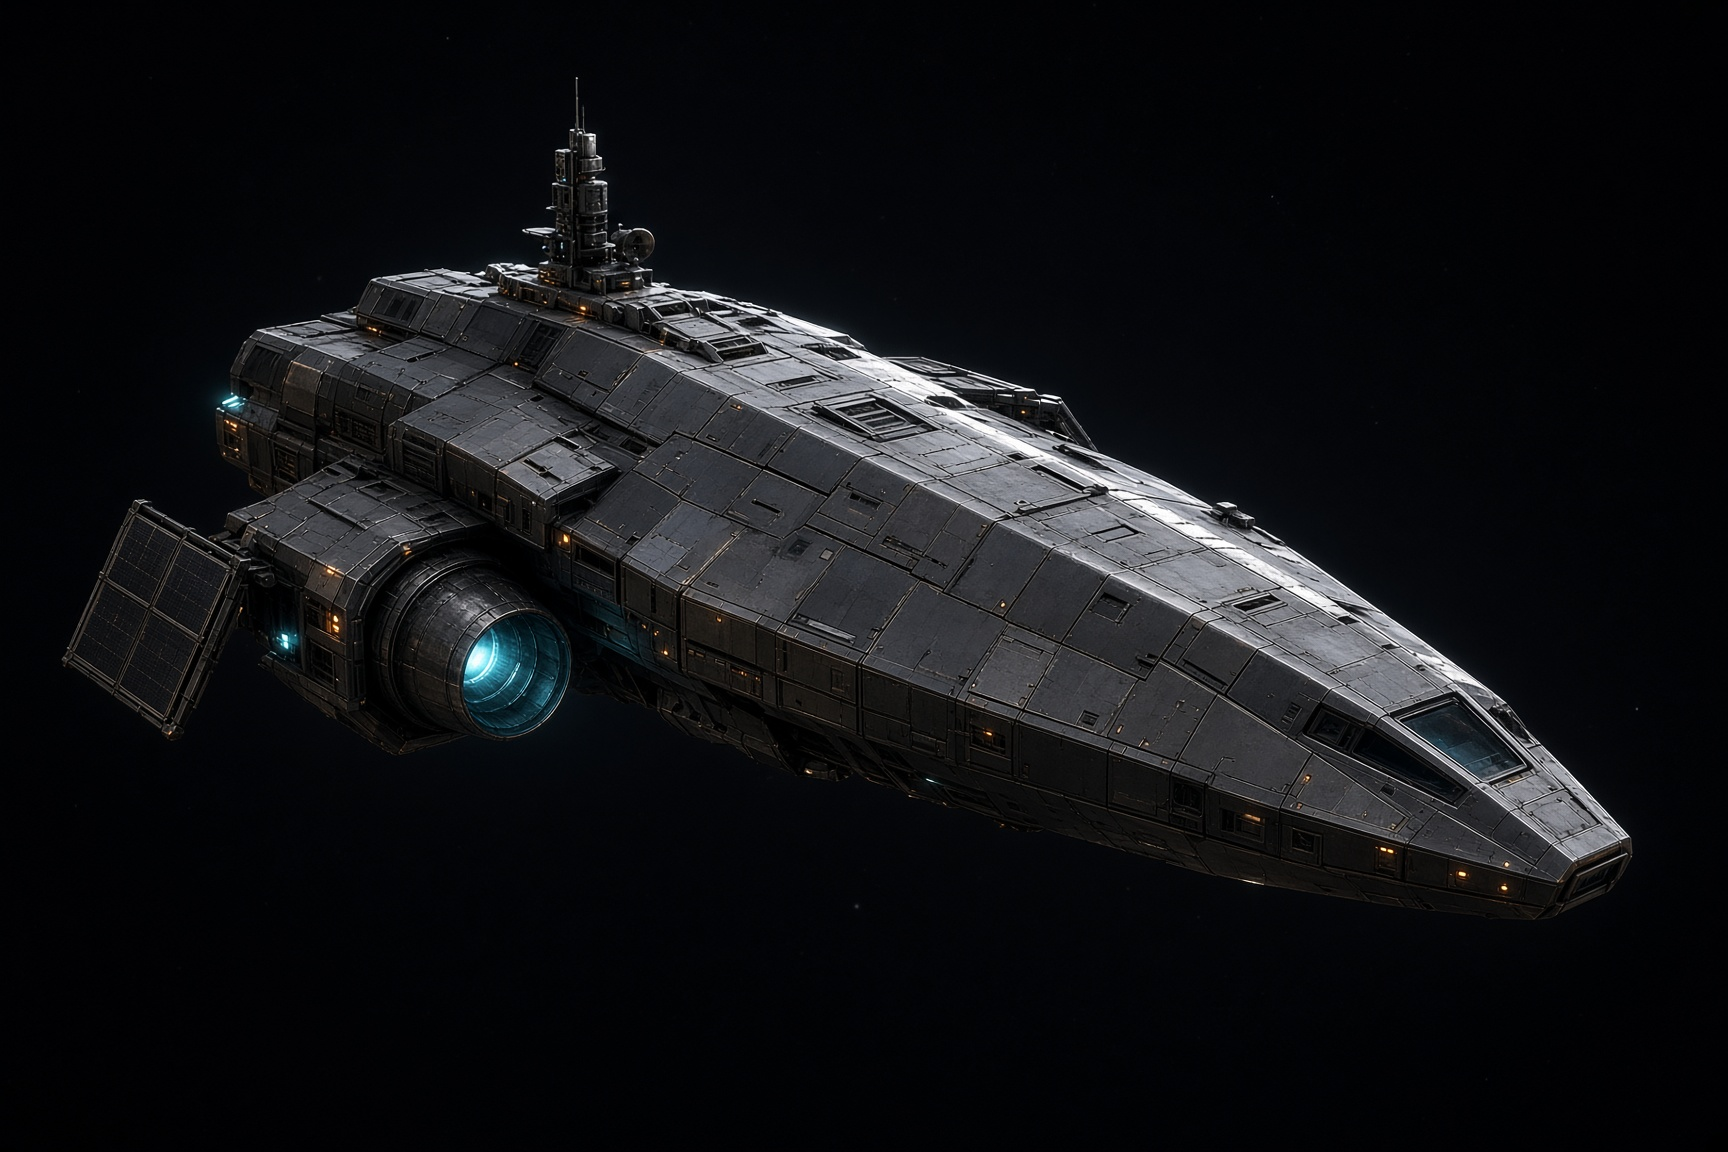
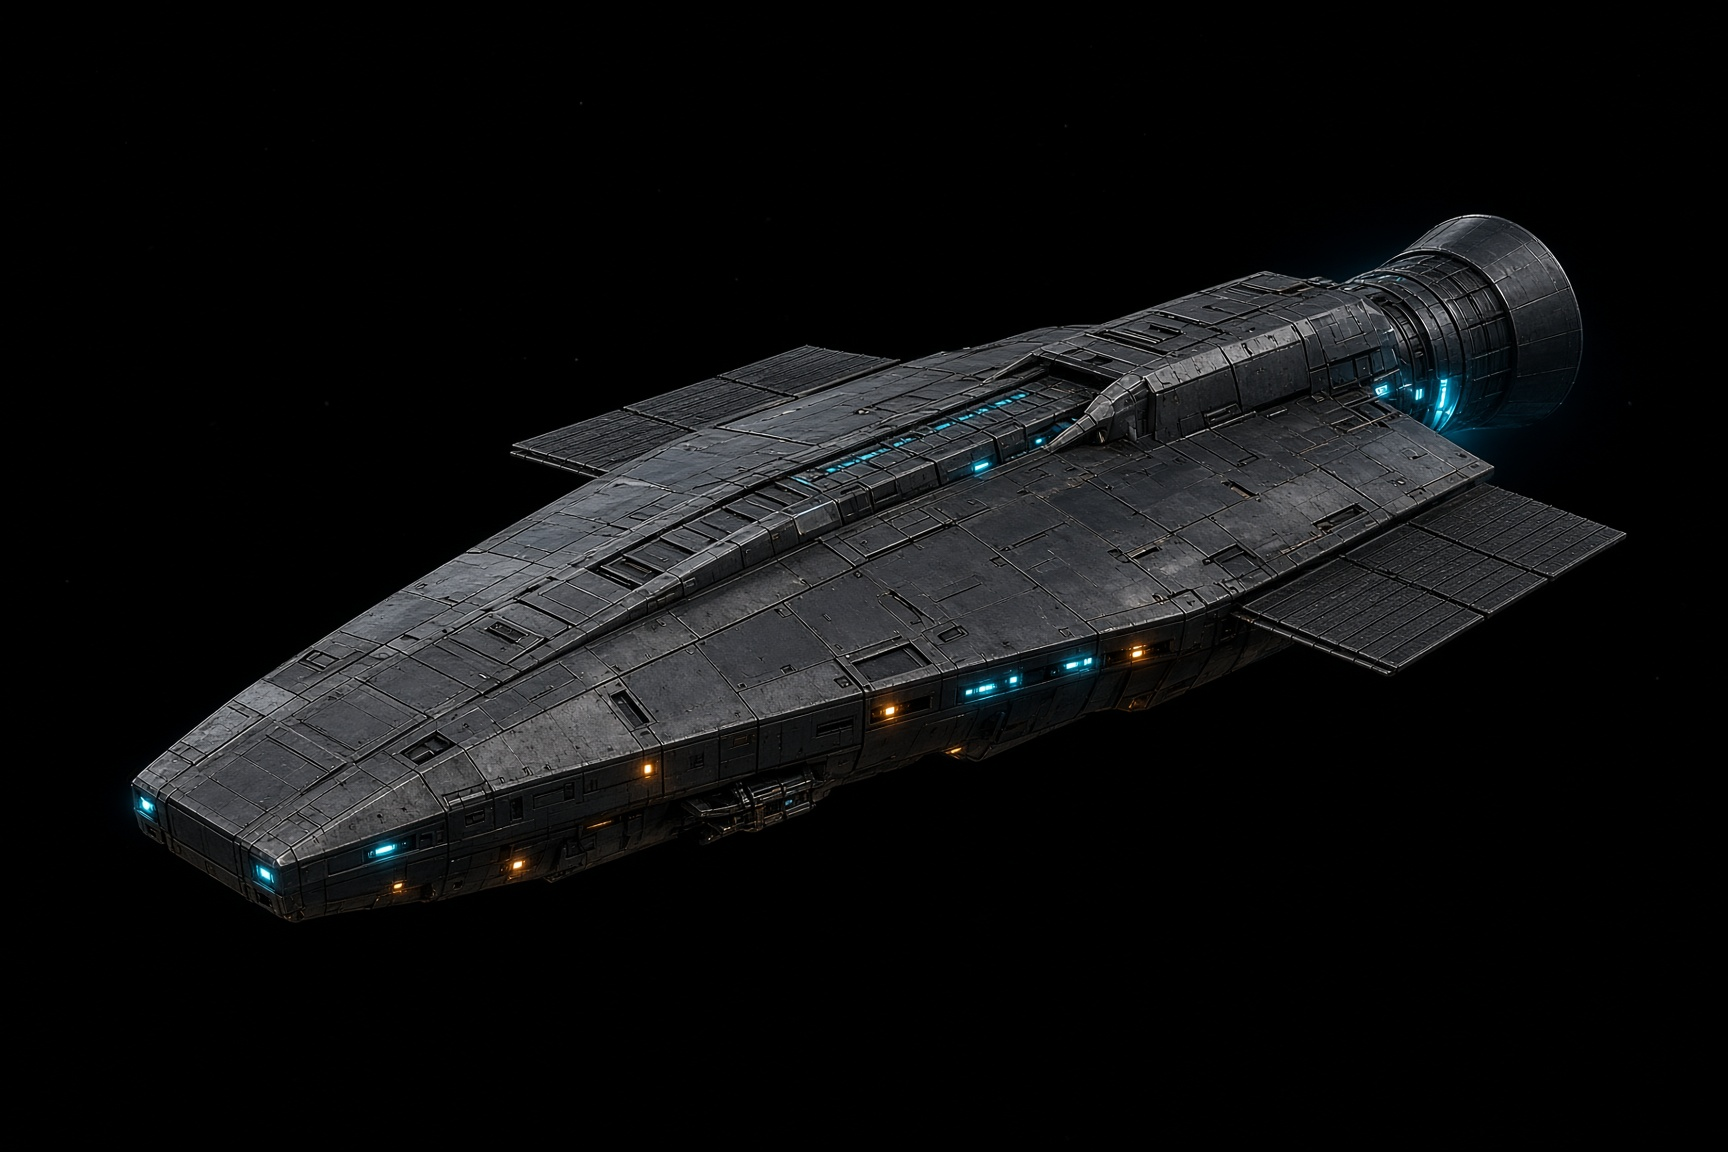
feat(art): reshoot alt heroes — stern mains, no hip ring
Flush FSD spine. RCS smaller than bells. Faired dishes. Radiators on every hull.

diff --git a/src/lib/starwake/hull-class.ts b/src/lib/starwake/hull-class.ts
@@ -46,10 +46,13 @@ export const VISUAL_LAW = `STARWAKE VISUAL LAW:
 Near-future working spacecraft, not sleek luxury sci-fi.
 Blocky modular hull plates, visible seams, rivets, heat-stained metal.
 Asymmetric utility: radiators, sensor masts, cargo latches, docking rings.
-Warp: thin ring or spine emitter, not a glowing fantasy halo.
+Warp: flush spine emitter along the hull, not a hoop hanging off the side, not a glowing fantasy halo.
 Palette: charcoal hull, cold steel, muted amber nav lights, cyan/teal thruster and warp glow.
 No chrome, no anime wings, no text logos, no people, no planets filling the frame.
 Studio presentation: clean product shot, physically plausible scale.`;
+
+/** Hardware lock for every still. Append after the beauty camera. */
+export const HARDWARE_LAW = `Main drive bells exit the stern, on the long axis, facing aft — the back of the ship is the engines. Side / RCS thrusters if any are small flush nozzles, clearly smaller than the mains. Sensor dishes are faired and low, not towers. Every hull shows flat radiator or heat-exchanger panels. No ring, hoop, or torus sticking off the beam.`;
 
 export type BeautyShot = {
   classId: HullClassId;
@@ -62,52 +65,52 @@ export const BEAUTY_OF: Record<ShipId, BeautyShot> = {
   scout: {
     classId: "ION_SCOUT",
     name: `Scout "Far Eye"`,
-    silhouette: "long spine + forward cockpit blister and a high-gain dish boom",
-    feature: "offset sensor mast and a sealed sample drawer",
+    silhouette: "needle hull, flush cockpit, long axis stern-to-bow",
+    feature: "low faired chin dish and dorsal radiator panels",
   },
   courier: {
     classId: "WARP_CUTTER",
     name: `Cutter Mk-II "Ashwake"`,
-    silhouette: "long spine + forward cockpit, packet hold amidships",
-    feature: "offset warp ring on a thin emitter spine",
+    silhouette: "short blunt nose, long rectangular packet spine",
+    feature: "flush FSD spine strip and a pair of aft drive bells",
   },
   clipper: {
     classId: "WARP_CUTTER",
     name: `Clipper "Hotleg"`,
-    silhouette: "delta sprint hull, short FSD, forward cockpit",
-    feature: "hot drive bells and a slim packet rack",
+    silhouette: "long flat dart, slab sides, almost no wings",
+    feature: "one oversized stern drive bell and side radiator vanes",
   },
   tug: {
     classId: "WARP_CUTTER",
     name: `Tug "Collar"`,
-    silhouette: "box hull with folded transfer arms and a docking ring",
-    feature: "folded harbor arms and a face-on capture ring",
+    silhouette: "squat cube-forward hull, mass at the nose",
+    feature: "the docking collar is the entire bow; small RCS; aft bells",
   },
   extractor: {
     classId: "MINING_BARGE",
     name: `Barge "Wellsip"`,
-    silhouette: "fat belly barge with a ventral scoop boom",
-    feature: "ventral mining drill and twin ore bins",
+    silhouette: "wide flat ore skip, low profile",
+    feature: "one side scoop faired to the hull and roof radiator grids",
   },
   tender: {
     classId: "MINING_BARGE",
     name: `Tender "Cryo"`,
-    silhouette: "depot hull with two cryo spheres and a fuel collar",
-    feature: "twin cryo tanks and a transfer collar",
+    silhouette: "long tanker spine, two cryo spheres in a line",
+    feature: "inline tanks, bow collar, radiator panels between the spheres",
   },
   hauler: {
     classId: "HAULER",
     name: `Hauler "Brick"`,
-    silhouette: "fat belly cargo brick, lazy stick, blunt nose",
-    feature: "boxy cargo rack and a wide docking collar",
+    silhouette: "long cargo box on a short drive stub",
+    feature: "flush bow collar and a bank of stern bells under HX vanes",
   },
 };
 
 export const FRIGATE_BEAUTY: BeautyShot = {
   classId: "VOID_FRIGATE",
   name: `Frigate "Voidwake"`,
-  silhouette: "twin-boom combat hull, long keel, forward cockpit",
-  feature: "offset warp ring and faired hardpoint blisters",
+  silhouette: "long keel, twin stern bells, no fighter wings",
+  feature: "flush FSD spine and radiator cheeks",
 };
 
 export function beautyOf(shipId: ShipId): BeautyShot {
@@ -139,6 +142,7 @@ Full ship in frame, 3/4 front-above view, slight bank.
 Dark studio void, faint star pinpricks only, no nebula wallpaper.
 Hard rim light + soft fill. Show panel gaps, thermal discoloration, antennae.
 Landing gear retracted. Thrusters idle cyan. Nav lights amber.
+${HARDWARE_LAW}
 Photoreal product visualization, sharp, 8k, no text, no watermark.
 STARWAKE VISUAL LAW applies.`;
 }

diff --git a/src/lib/starwake/hull-class.test.ts b/src/lib/starwake/hull-class.test.ts
@@ -29,6 +29,8 @@ describe("hull classes", () => {
     assert.match(p, /3\/4 front-above/);
     assert.match(p, /STARWAKE VISUAL LAW/);
     assert.match(p, /no text/);
+    assert.match(p, /stern/);
+    assert.doesNotMatch(p, /offset warp ring/);
     assert.match(beautyPrompt(FRIGATE_BEAUTY), /VOID_FRIGATE/);
   });
 });

diff --git a/.grok/skills/starwake-ships/SKILL.md b/.grok/skills/starwake-ships/SKILL.md
@@ -28,7 +28,7 @@ STARWAKE VISUAL LAW:
 Near-future working spacecraft, not sleek luxury sci-fi.
 Blocky modular hull plates, visible seams, rivets, heat-stained metal.
 Asymmetric utility: radiators, sensor masts, cargo latches, docking rings.
-Warp: thin ring or spine emitter, not a glowing fantasy halo.
+Warp: flush spine emitter along the hull, not a hoop hanging off the side, not a glowing fantasy halo.
 Palette: charcoal hull, cold steel, muted amber nav lights, cyan/teal thruster and warp glow.
 No chrome, no anime wings, no text logos, no people, no planets filling the frame.
 Studio presentation: clean product shot, physically plausible scale.
@@ -73,11 +73,12 @@ STARWAKE ship hero shot.
 Class: {{ION_SCOUT | WARP_CUTTER | MINING_BARGE | HAULER | VOID_FRIGATE}}
 Name / variant: {{e.g. Cutter Mk-II "Ashwake"}}
 Silhouette: {{one sentence: long spine + forward cockpit / fat belly barge / twin-boom fighter}}
-Unique feature: {{e.g. ventral mining drill, offset warp ring, boxy cargo rack}}
+Unique feature: {{one tool — packet hold, collar, scoop, tanks — never an offset warp ring}}
 Full ship in frame, 3/4 front-above view, slight bank.
 Dark studio void, faint star pinpricks only, no nebula wallpaper.
-Hard rim light + soft fill. Show panel gaps, thermal discoloration, antennae.
+Hard rim light + soft fill. Sparse panel gaps.
 Landing gear retracted. Thrusters idle cyan. Nav lights amber.
+Main drive bells exit the stern, on the long axis. RCS if any is smaller and flush. Dishes faired low. Every hull shows radiator / HX panels. No hoop off the beam.
 Photoreal product visualization, sharp, 8k, no text, no watermark.
 STARWAKE VISUAL LAW applies.
 ```
@@ -98,6 +99,10 @@ Fail the image and retry once if any of these show:
 - Crew, faces, hands, EVA suits
 - A planet, nebula, or station eating more than a corner of the frame
 - Fantasy warp: thick halo, rainbow tunnel, energy wings
+- Offset / hip-mounted warp ring or hoop wider than the hull
+- Main thrusters on the sides or nose; side RCS larger than the stern bells
+- Radar dishes as towers or long booms
+- Missing radiators / heat exchangers
 
 Second failure: keep the closest pass, flag the defect, do not invent a third style.
 

diff --git a/docs/STARWAKE_VISUAL_LAW.md b/docs/STARWAKE_VISUAL_LAW.md
@@ -7,7 +7,7 @@ STARWAKE VISUAL LAW:
 Near-future working spacecraft, not sleek luxury sci-fi.
 Blocky modular hull plates, visible seams, rivets, heat-stained metal.
 Asymmetric utility: radiators, sensor masts, cargo latches, docking rings.
-Warp: thin ring or spine emitter, not a glowing fantasy halo.
+Warp: flush spine emitter along the hull, not a hoop hanging off the side, not a glowing fantasy halo.
 Palette: charcoal hull, cold steel, muted amber nav lights, cyan/teal thruster and warp glow.
 No chrome, no anime wings, no text logos, no people, no planets filling the frame.
 Studio presentation: clean product shot, physically plausible scale.

diff --git a/public/starwake/hero-alt/README.md b/public/starwake/hero-alt/README.md
@@ -1,6 +1,6 @@
-# Hangar hero stills — alt clean
+# Hangar hero stills — alt clean (reshoot)
 
-Clean look, **new silhouettes**. Not derived from `hero/` or `hero-clean/`. Same Visual Law and 3/4 camera.
+No offset warp ring. Mains on the stern. RCS smaller. Dishes faired. Radiators on every hull.
 
 | File | Hull | Class | Variant |
 |------|------|-------|---------|

diff --git a/CHANGELOG.md b/CHANGELOG.md
@@ -2,6 +2,11 @@
 
 All notable changes to the Starwake project.
 
+## [v0.1.49] - 2026-09-05
+
+### Changed
+- Reshot `hero-alt/`: no hip warp ring. Stern mains, small RCS, faired dishes, radiators on every hull.
+
 ## [v0.1.48] - 2026-09-05
 
 ### Changed
